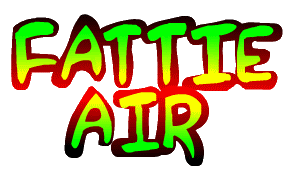
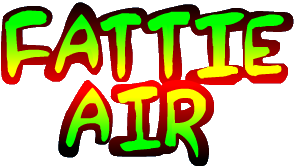
update

diff --git a/src/game.js b/src/game.js
@@ -12,6 +12,8 @@ function create() {
 function gameCreate() {
   game.world.setBounds(0, 0, worldWidth, worldHeight);
   powerups = game.add.group();
+  powerups.enableBody = true;
+  powerups.physicsBodyType = Phaser.Physics.BOX2D;
   game.stage.backgroundColor = '#124184';
 
   // Enable Box2D physics
@@ -42,13 +44,14 @@ function gameCreate() {
 
   groundBody.setChain(vertices);
   let graphics = game.add.graphics(0, 0);
+  game.physics.box2d.enable(groundBody, true);
 
   for (let index = 0; index < vertices.length - 2; index += 2) {
     graphics.beginFill(0xeeeeee);
     graphics.lineStyle(1, 0xeeeeee, 1);
     graphics.moveTo(vertices[index], game.height / 2 + vertices[index + 1]);
-    graphics.lineTo(vertices[index], game.height);
-    graphics.lineTo(vertices[index + 2], game.height);
+    graphics.lineTo(vertices[index], game.height + 100);
+    graphics.lineTo(vertices[index + 2], game.height + 100);
     graphics.lineTo(vertices[index + 2], game.height / 2 + vertices[index + 3]);
     graphics.lineTo(vertices[index], game.height / 2 + vertices[index + 1]);
     graphics.endFill();
@@ -73,7 +76,6 @@ function gameCreate() {
   upperjohn.body = johnBody;
 
   game.physics.box2d.weldJoint(upperjohn, lowerjohn, 15, 30, 10, 20, 3, 0.5);
-  lowerjohn.body.setBodyContactCallback(groundBody, groundCallback, this);
   // Make wheel joints
   // bodyA, bodyB, ax, ay, bx, by, axisX, axisY, frequency, damping, motorSpeed, motorTorque, motorEnabled
   // Make the wheel bodies
@@ -121,6 +123,8 @@ function gameCreate() {
     motorTorque,
     true,
   ); // front
+  wheelBodies[1].setCategoryContactCallback(2, callPowerup, this);
+  //wheelBodies[0].setBodyContactCallback(powerups, groundCallback, this);
 
   game.cursors = game.input.keyboard.createCursorKeys();
   game.spaceKey = game.input.keyboard.addKey(Phaser.Keyboard.SPACEBAR);
@@ -146,6 +150,7 @@ function gameCreate() {
 }
 
 function groundCallback() {
+  console.log('hi ground');
   isJumping = false;
 }
 
@@ -218,7 +223,7 @@ function buildLevel() {
     //   flagh = _l1;
     // } // end if
     if (
-      Math.random() < level * 0.025 &&
+      Math.random() < level * 0.75 &&
       _l8 > -0.1 &&
       _l2 > 500 &&
       _l2 < 14000
@@ -230,9 +235,11 @@ function buildLevel() {
       // ground[tnm].objs[_l4].gotoAndStop(Math.floor(Math.random() * 8) + 1);
       // _l5++;
       const bonusType = game.rnd.integerInRange(1, 4);
-      powerups.add(game.add.sprite((_l2, _l1 + 220, 'powerups')));
-      powerups.frame = bonusType;
-      //  lowerjohn.body.setBodyContactCallback(powerup1, callPowerup, this);
+      var powerup = powerups.create(_l2, _l1 + 220, 'powerups');
+      powerup.frame = bonusType;
+      powerup.body.setCollisionCategory(2); // this is a bitmask
+      //powerup.body.sensor = true;
+      game.world.bringToTop(powerups);
     } // end if
     if (_l11 % 45 == 20) {
       //      _l4 = "drop" + bonusCount;
@@ -253,7 +260,11 @@ function buildLevel() {
   lastGet = 0;
 }
 
-function callPowerup(object) {}
+function callPowerup(wheel, powerup) {
+  console.log(powerup);
+  powerup.visible = false;
+  powerup.destroy();
+}
 
 function update() {
   if (!startGame) {
@@ -264,6 +275,7 @@ function update() {
   lowerjohn.y = driveJoints[1].y;
   let motorSpeed = 50; // rad/s
   let motorEnabled = true;
+  console.log(isJumping);
   if (johnBody.x < 50)
     johnBody.velocity.x = 0;
   if (johnBody.y > game.world.height) {
@@ -277,7 +289,7 @@ function update() {
   } else if (game.cursors.right.isDown && !game.cursors.left.isDown) {} else {
     motorEnabled = false;
   } // roll if no keys pressed
-  if (game.spaceKey.isDown && !isJumping) {
+  if (game.spaceKey.isDown) {
     isJumping = true;
     johnBody.velocity.y = -200;
   }

diff --git a/src/title.js b/src/title.js
@@ -2,10 +2,13 @@ function mainMenuCreate() {
   background = game.add.image(0, 0, 'background');
   background.height = game.height;
 
+  title2 = game.add.image(game.world.centerX - 5, game.world.centerY + 5, 'title');
 
+  title2.anchor.setTo(0.5, 0.5);
+  title2.visible = true;
+  title2.tint = Math.random() * 0xffffff;
   title = game.add.image(game.world.centerX, game.world.centerY, 'title');
-  title.width = game.width / 2;
-  title.height = game.height / 2;
+
   title.anchor.setTo(0.5, 0.5);
   title.visible = true;
   maxxdaddy = game.add.image(0, game.height * 0.95, 'maxxdaddy');
@@ -18,6 +21,7 @@ function mainMenuUpdate() {
   if (game.spaceKey.isDown) {
     game.spaceKey = null;
     title.visible = false;
+    title2.visible = false;
     gameCreate();
     startGame = true;
   }

diff --git a/src/boot.js b/src/boot.js
@@ -9,7 +9,7 @@ let levelCaption;
 let livesCaption;
 const worldWidth = 15100;
 const worldHeight = 640;
-let isJumping = false;
+let isJumping = true;
 let bonusCount = 0;
 let vertices = [];
 let powerups;
@@ -22,7 +22,7 @@ let frequency = 3.5;
 let damping = 0.5;
 let motorTorque = 4;
 let rideHeight = 0.25;
-
+let rewards = [];
 const PTM = 70;
 
 
